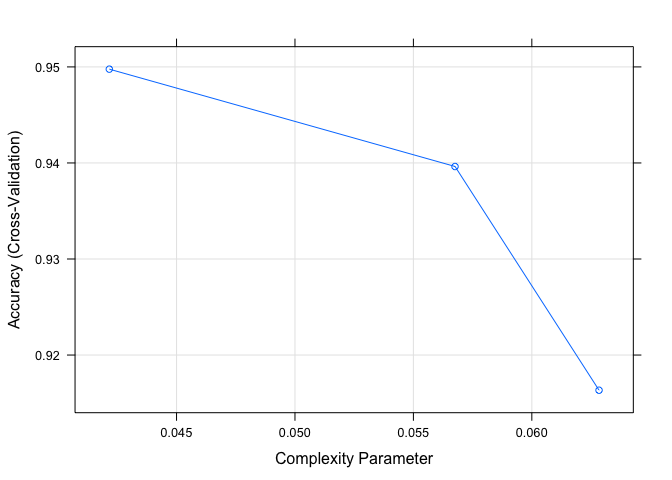
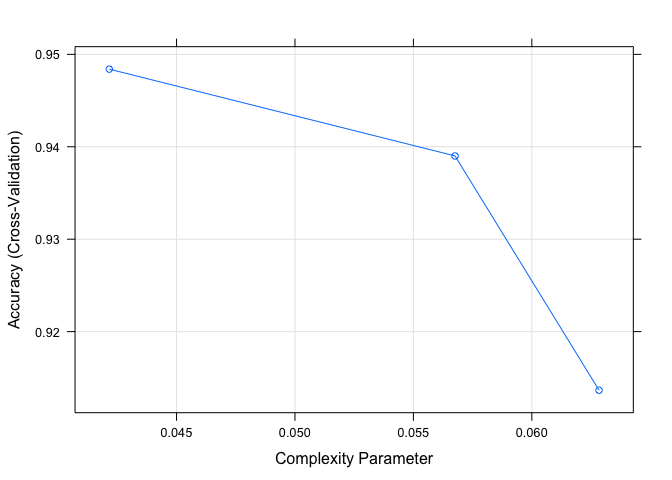
new pics

diff --git a/yelp.md b/yelp.md
@@ -75,13 +75,13 @@ clasmodel
 ## 
 ## No pre-processing
 ## Resampling: Cross-Validated (10 fold) 
-## Summary of sample sizes: 15802, 15802, 15802, 15802, 15803, 15803, ... 
+## Summary of sample sizes: 15802, 15803, 15802, 15802, 15802, 15802, ... 
 ## Resampling results across tuning parameters:
 ## 
 ##   cp          Accuracy   Kappa    
-##   0.04216216  0.9497662  0.7143828
-##   0.05675676  0.9396279  0.6222788
-##   0.06283784  0.9163364  0.3012540
+##   0.04216216  0.9483993  0.7050288
+##   0.05675676  0.9390020  0.6191738
+##   0.06283784  0.9136572  0.2802035
 ## 
 ## Accuracy was used to select the optimal model using the largest value.
 ## The final value used for the model was cp = 0.04216216.
